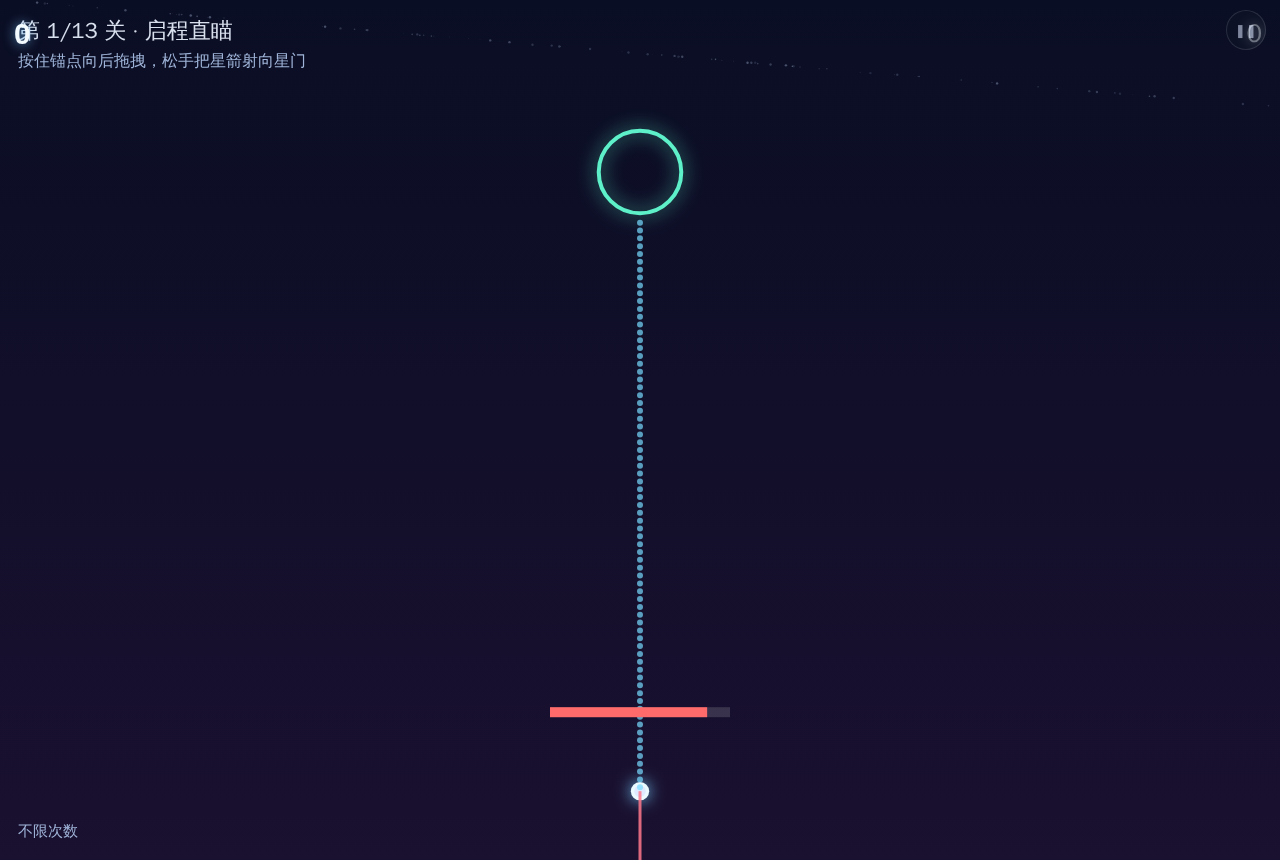
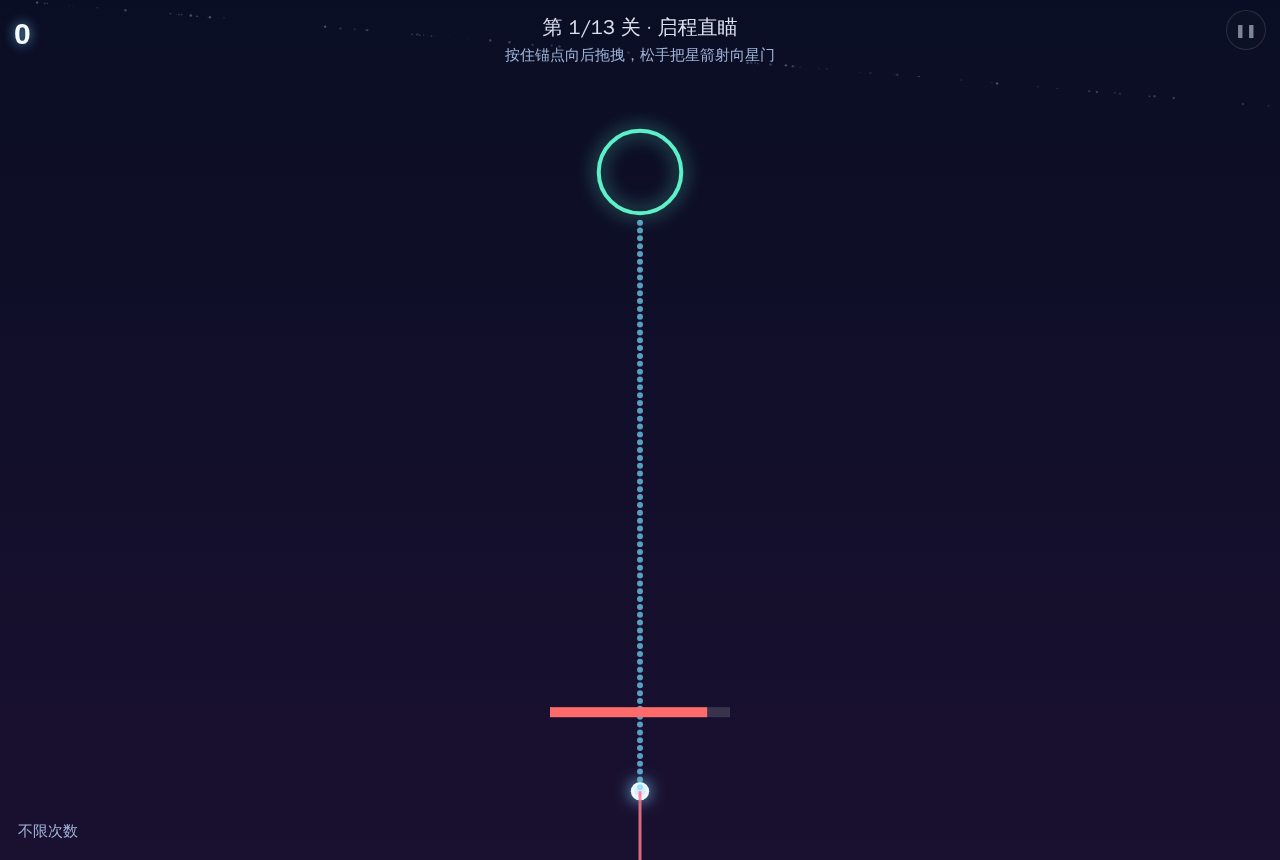
fix(gravity-sling): 分数/连击交还宿主DOM HUD，关卡标题居中避让暂停钮，消除画布重复计分遮挡

Changed region(s): [[0.0, 0.0, 0.25, 0.0907], [0.4062, 0.0, 0.5938, 0.0907], [0.9688, 0.0302, 1.0, 0.0605]]

diff --git a/src/tools/mini-games/gpu-games/gravity-sling/game/sling-core.ts b/src/tools/mini-games/gpu-games/gravity-sling/game/sling-core.ts
@@ -1129,22 +1129,15 @@ export function mount(canvas: HTMLCanvasElement, opts: MountOptions): SlingHandl
   }
 
   function drawHud(): void {
+    // 分数与连击由宿主 FocusStage 的 DOM HUD 负责（左上分数/连击、右上暂停），
+    // 本画布不再重复绘制分数；关卡标题与提示居中于顶部第二行，避开两侧宿主控件。
+    ctx.textAlign = 'center'
     ctx.fillStyle = 'rgba(234,242,255,0.92)'
-    ctx.font = '700 22px system-ui, sans-serif'
-    ctx.textAlign = 'left'
-    ctx.fillText(`第 ${state.level + 1}/13 关 · ${level.title}`, 18, 38)
-    ctx.font = '16px system-ui, sans-serif'
+    ctx.font = '700 20px system-ui, sans-serif'
+    ctx.fillText(`第 ${state.level + 1}/13 关 · ${level.title}`, cssW / 2, 34)
+    ctx.font = '15px system-ui, sans-serif'
     ctx.fillStyle = '#9fb4d8'
-    ctx.fillText(level.hint, 18, 66)
-    ctx.textAlign = 'right'
-    ctx.fillStyle = '#f4fbff'
-    ctx.font = '700 26px system-ui, sans-serif'
-    ctx.fillText(String(state.score), cssW - 18, 42)
-    if (state.combo > 1) {
-      ctx.fillStyle = '#ffd76a'
-      ctx.font = '700 18px system-ui, sans-serif'
-      ctx.fillText(`连击 ×${Math.min(state.combo, COMBO_MAX_MULT)}`, cssW - 18, 70)
-    }
+    ctx.fillText(level.hint, cssW / 2, 60)
     ctx.textAlign = 'left'
     ctx.font = '15px system-ui, sans-serif'
     ctx.fillStyle = '#9fb4d8'

diff --git a/src/tools/mini-games/gpu-games/gravity-sling/docs/postmortem_007_太空弹弓.md b/src/tools/mini-games/gpu-games/gravity-sling/docs/postmortem_007_太空弹弓.md
@@ -101,6 +101,7 @@ wrapper 只做三件事：`onMounted` 调 `mount(canvas, opts)`、`watch` 宿主
 5. **离线上下文必须先让 SW 接管**：新上下文首次加载即 `setOffline(true)` 时，SW 尚未注册/控制页面，`reload` 报 `ERR_INTERNET_DISCONNECTED`。正确顺序：在线进入 → 等 `navigator.serviceWorker.ready` → 在线 reload 一次拿到 `controller` → 再断网二次加载。
 6. **调试缝分层**：宿主只把 handle 挂到 `window.__gravitySling`，高分/暂停/快照等句柄方法在根层，物理调试（`phase/isPaused/anchorScreen/layout/forcePortal/launch`）在 `debug` 命名空间；E2E 按此分层调用，避免把纯调试方法暴露进游戏状态机。
 7. **力度条遮挡锚点**：初版力度条固定贴屏幕底部，与锚点/橡皮筋叠在一起；改为贴锚点上方 84 世界像素，PC/平板/手机均可见且不挡出生点。
+8. **画布重复绘制分数与宿主 HUD 冲突**：`FocusStage` 已在左上 DOM 渲染分数/连击、右上渲染暂停钮；初版画布又在右上重复画分数，高分时被暂停钮遮挡只剩一位数，关卡标题也与左上分数叠字。最终画布**不再绘制分数/连击**（由 `onScore/onCombo` 上抛宿主 DOM 展示），关卡标题与提示改为顶部居中第二行，避开左右两侧宿主控件。
 
 ## 四、验证覆盖
 
@@ -147,14 +148,14 @@ wrapper 只做三件事：`onMounted` 调 `mount(canvas, opts)`、`watch` 宿主
 
 | 文件 | 视口 | 像素 | 大小（字节） | 内容 | 结论 |
 | --- | --- | --- | --- | --- | --- |
-| `shots/pc-aim.png` | PC 1280×860 | 1280×860 | 64,874 | 第 1 关竖直预测虚线、青色星门、橡皮筋、锚点上方红色力度条、HUD 关名/提示/不限次数 | 通过 |
-| `shots/pc-win.png` | PC 1280×860 | 1280×860 | 49,983 | 「命中星门！」结算面板：得分 300、连击峰值 ×0、收集星尘 0、下一关 / 重试本关 | 通过 |
-| `shots/tablet-aim.png` | 平板 834×1112 | 834×1112 | 66,183 | 竖屏等比缩放、预测轨迹、黄色中段力度条、无横向溢出 | 通过 |
-| `shots/mobile-aim.png` | 手机 375×812 | 375×812 | 46,265 | iPhone UA 触控布局、预测虚线、红色满力条、底部安全区不遮挡操作 | 通过 |
+| `shots/pc-aim.png` | PC 1280×860 | 1280×860 | 63,531 | 第 1 关竖直预测虚线、青色星门、橡皮筋、锚点上方力度条；左上宿主分数、顶部居中关名/提示、右上暂停钮互不遮挡 | 通过 |
+| `shots/pc-win.png` | PC 1280×860 | 1280×860 | 49,014 | 「命中星门！」结算面板：得分 300、连击峰值 ×0、收集星尘 0、下一关 / 重试本关；左上宿主分数 300 清晰可见 | 通过 |
+| `shots/tablet-aim.png` | 平板 834×1112 | 834×1112 | 65,066 | 竖屏等比缩放、预测轨迹、中段力度条、标题居中、无横向溢出 | 通过 |
+| `shots/mobile-aim.png` | 手机 375×812 | 375×812 | 45,219 | iPhone UA 触控布局、预测虚线、满力条、标题居中不压分数/暂停钮、底部安全区不遮挡操作 | 通过 |
 
 ### 4.5 EdgeOne Pages 限额复核（生产构建 `dist/`）
 
-- 总大小：**184,203,067 B ≈ 175.7 MiB**（`du -sh dist` 显示 177M 块占用）；
+- 总大小：**184,202,824 B ≈ 175.7 MiB**（`du -sh dist` 显示 177M 块占用）；
 - 文件数：**180**；
 - 最大单文件：`dist/mf/bge-small-zh-v1.5/onnx/model_quantized.onnx`，**24,010,842 B ≈ 22.9 MiB**（既有 ONNX，非本游戏引入）；
 - 限额对照：单项目 5 GiB、20,000 文件、单文件 25 MiB —— 全部满足；本游戏 chunk 为几十 KB 级纯代码 + CSS，未新增 wasm / 字体 / 图片 / 音频素材，**未改动 SW 既有预缓存/runtimeCaching 策略**，新 chunk 由既有分包与 glob 预缓存自动收录。
